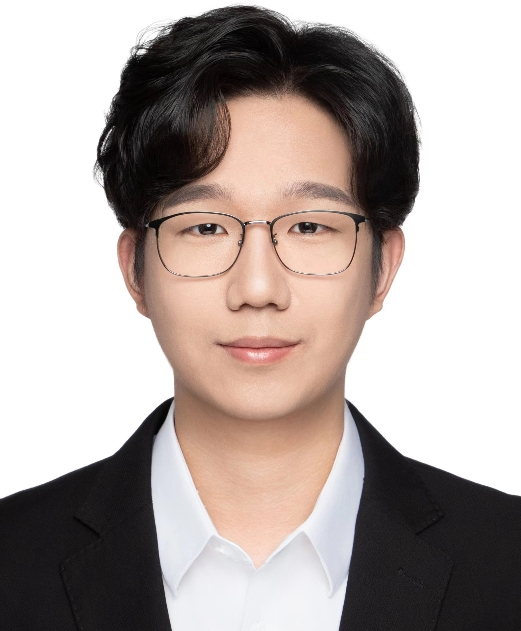
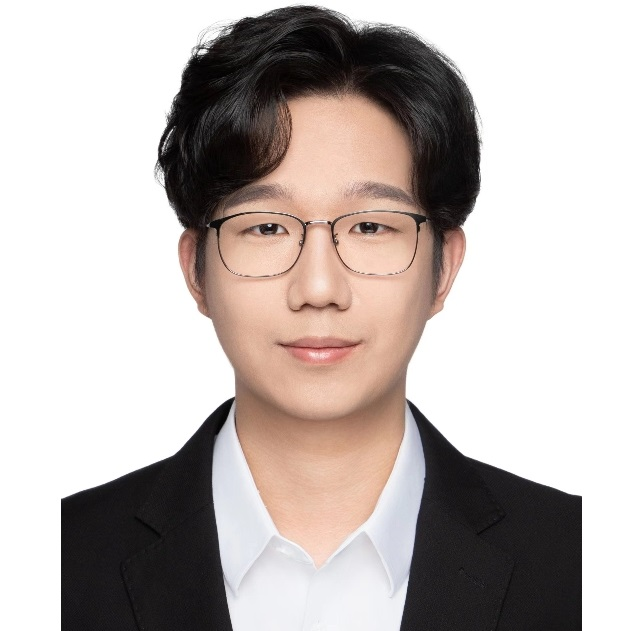
update photo

Changed region(s): [[0.0, 0.0, 1.0, 1.0], [0.5528, 0.4216, 0.5835, 0.4517]]

diff --git a/index.html b/index.html
@@ -109,7 +109,7 @@
 			<hr />
 			<!-- 教授部分 -->
 			<div class="instructor">
-				<div class="instructorphoto"><img src="https://sds.cuhk.edu.cn/sites/sds.prod.dpsite03.cuhk.edu.cn/files/styles/w1200/public/2022-05/%E7%8E%8B%E6%9C%AC%E5%8F%8B%20%282%29_0.jpg"></div>
+				<div class="instructorphoto"><img src="imgs/benyou_new.png"></div>
 				<div>Instructor <br> <a href="https://wabyking.github.io/old.html" target="_blank">Benyou Wang</a></div>
 			</div>
 			
@@ -148,7 +148,7 @@
 				
 				<div class="col-md-2">
 					<div class="instructor">
-						<div class="instructorphoto"><img src="imgs/jike.png"></div>
+						<div class="instructorphoto"><img src="imgs/jike_new.png"></div>
 						<div>TA <br><a href="https://1ke-ji.github.io/" target="_blank">Ke Ji</a></div>
 					</div>
 				</div>
